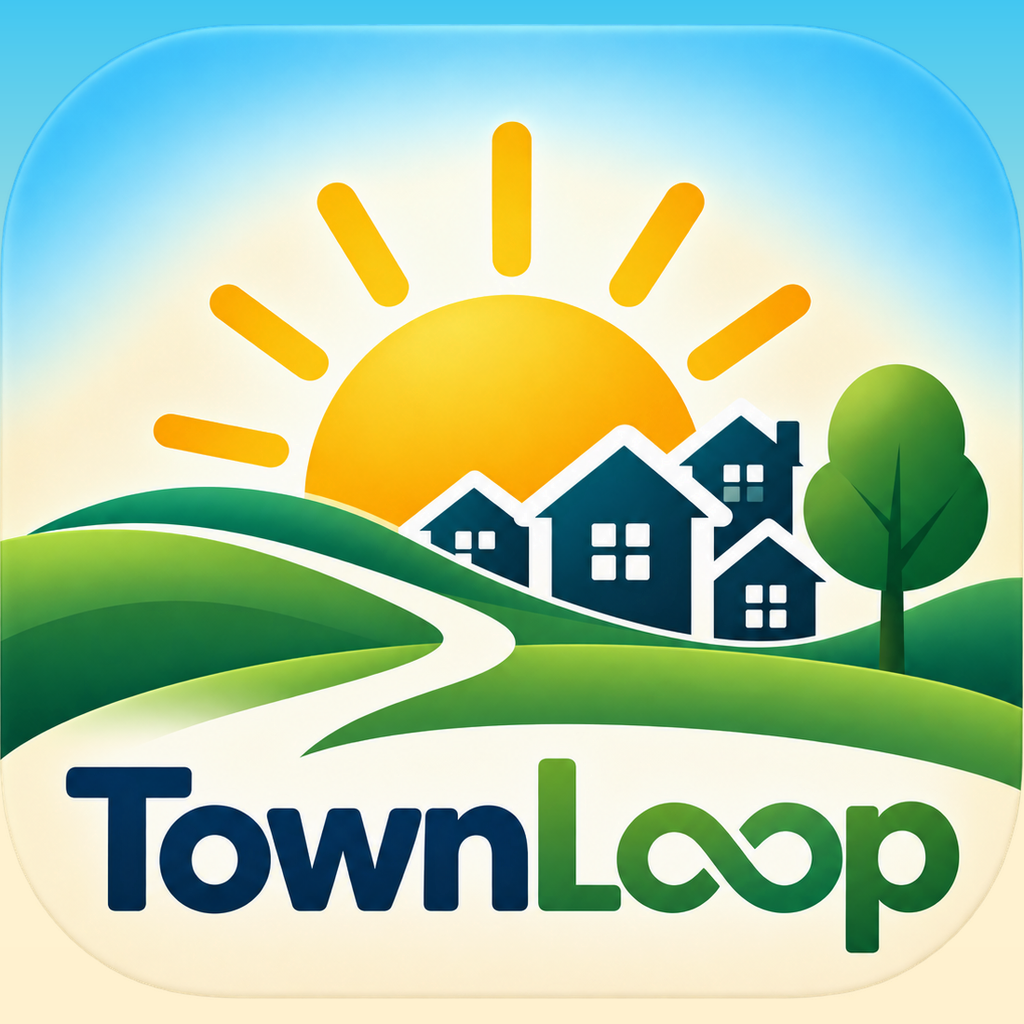
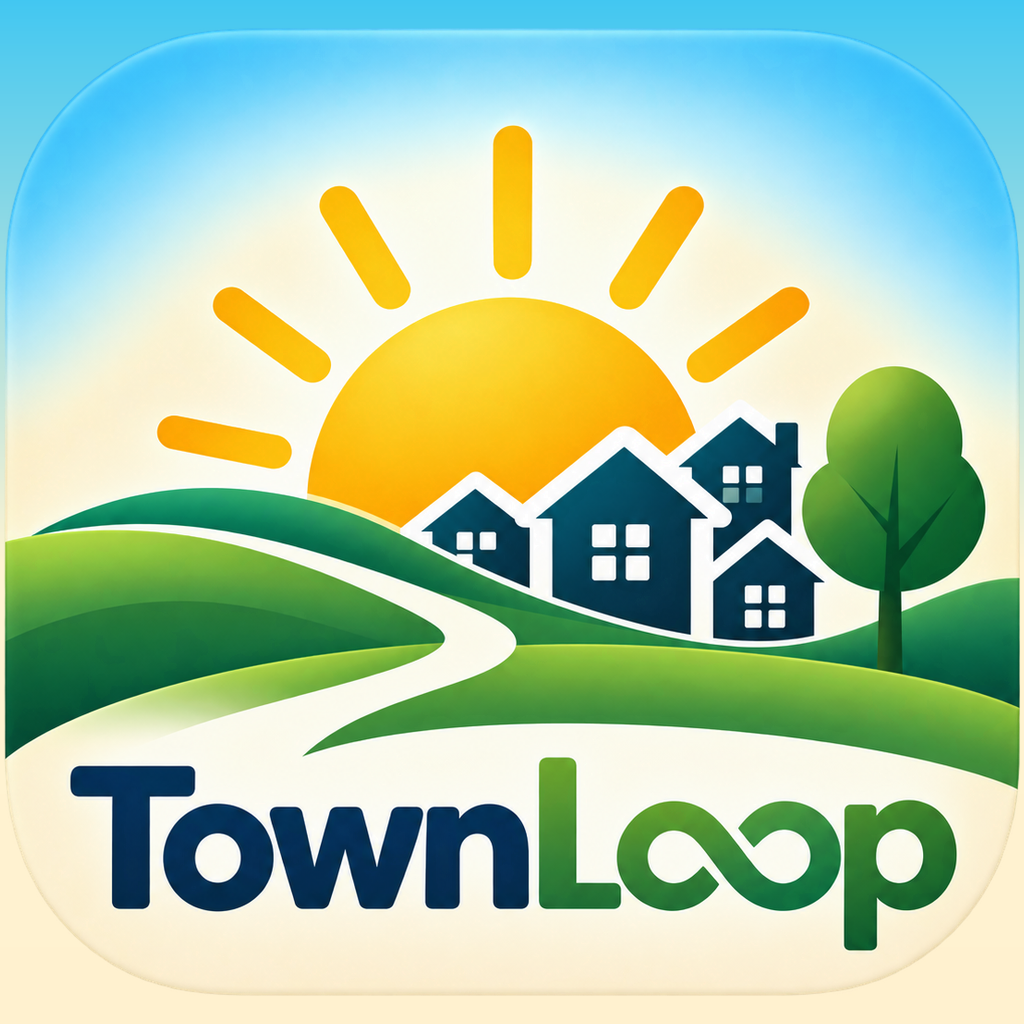
Preserve complete original launcher artwork on Android and iOS

diff --git a/native/scripts/prepare-launcher-icons.py b/native/scripts/prepare-launcher-icons.py
@@ -1,0 +1,70 @@
+"""Package the complete owner-approved icon composition for Android and iOS.
+
+Pillow required. No redrawing, recoloring, edge stretching or generative edits.
+Only transparent outer canvas is trimmed; the rounded panel remains intact.
+"""
+from pathlib import Path
+from math import hypot
+from PIL import Image
+
+ASSETS = Path(__file__).resolve().parents[1] / 'assets'
+SIZE = 1024
+SOURCE = ASSETS / 'branding/android-launcher-source.png'
+# Alpha >=16 bounds exclude almost invisible stray pixels in transparent canvas.
+CONTENT = (77, 108, 1177, 1156)
+
+
+def outline(art):
+    alpha = art.getchannel('A')
+    points = []
+    for y in range(art.height):
+        bounds = alpha.crop((0, y, art.width, y + 1)).point(lambda a: 255 if a >= 16 else 0).getbbox()
+        if bounds:
+            points.extend([(bounds[0] - art.width / 2, y - art.height / 2),
+                           (bounds[2] - 1 - art.width / 2, y - art.height / 2)])
+    return points
+
+
+def layer(art, scale):
+    resized = art.resize((round(art.width * scale), round(art.height * scale)), Image.Resampling.LANCZOS)
+    canvas = Image.new('RGBA', (SIZE, SIZE))
+    canvas.paste(resized, ((SIZE - resized.width) // 2, (SIZE - resized.height) // 2))
+    return canvas
+
+
+def generate():
+    source = Image.open(SOURCE).convert('RGBA')
+    assert source.size == (1254, 1254)
+    art = source.crop(CONTENT)
+    points = outline(art)
+    background = Image.open(ASSETS / 'branding/launcher-background.png').convert('RGBA')
+    assert background.size == (SIZE, SIZE)
+    # Complete panel, not merely the lettering, stays inside Android's 66dp circle.
+    radius = SIZE * 33 / 108 - 4
+    scale = radius / max(hypot(x, y) for x, y in points)
+    foreground = layer(art, scale)
+    foreground.save(ASSETS / 'adaptive-icon-foreground.png', optimize=True)
+    background.convert('RGB').save(ASSETS / 'adaptive-icon-background.png', optimize=True)
+
+    # Largest proportional iOS placement retaining the full rounded panel under
+    # a conservative rounded-square mask. Padding is background, never black.
+    corner = SIZE * .225
+    def fits(s):
+        return all(hypot(max(abs(x * s) - (SIZE / 2 - corner), 0),
+                         max(abs(y * s) - (SIZE / 2 - corner), 0)) <= corner - 4
+                   for x, y in points)
+    low, high = 0., min(SIZE / art.width, SIZE / art.height)
+    for _ in range(24):
+        middle = (low + high) / 2
+        if fits(middle):
+            low = middle
+        else:
+            high = middle
+    icon = Image.alpha_composite(background, layer(art, low)).convert('RGB')
+    icon.save(ASSETS / 'icon.png', optimize=True)
+    icon.save(ASSETS / 'android-icon.png', optimize=True)
+    print(f'Android artwork: {round(art.width * scale)}px; iOS artwork: {round(art.width * low)}px; complete composition retained')
+
+
+if __name__ == '__main__':
+    generate()

diff --git a/native/assets/branding/LAUNCHER_ICONS.md b/native/assets/branding/LAUNCHER_ICONS.md
@@ -1,0 +1,36 @@
+# Complete original TownLoop launcher artwork — Android and iOS
+
+Owner decision: preserve the full original rounded-square composition and wordmark,
+accepting necessary padding on circular Android launchers. This supersedes the
+edge-extension/reframing experiment in 6d2c1a0.
+
+Source: the latest owner attachment
+`/home/tonio/Downloads/file_00000000ce2c8230b27c45f7dee20ef0.png` matches the existing
+`android-launcher-source.png` byte-for-byte (historical filename, shared by both
+platforms). SHA256: 64373610949b81dd43b1725f1ff13cd71f13ca82bfc7365d3c90dd9a5c7f7e4b.
+No generated replacement, redrawing, lettering changes, or recoloring.
+
+Run `python3 native/scripts/prepare-launcher-icons.py` (Pillow required).
+Only transparent outer canvas is trimmed; the original rounded panel, scenery,
+proportions, colors, and full TownLoop lettering are retained. All resizing uses
+Lanczos downsampling from the 1254px source. The opaque blue/cream backing is the
+existing background asset from c9008bf, preserved in launcher-background.png.
+There is no stretched landscape or altered composition.
+
+Android's entire visible panel fits inside the centered 66dp safe circle in its
+108dp adaptive layer, with a small rasterization margin. This necessarily makes
+it smaller than the edge-to-edge experiment. iOS uses the largest proportional
+placement preserving the panel under a conservative rounded-square mask; the
+1024px icon is opaque. Pre-adaptive Android uses that same flattened image.
+Android launchers control the outer mask and user-selected theming. The app
+cannot guarantee a rounded-square outer shape, identical apparent size, or
+untinted appearance under every launcher/theme.
+Reference: https://developer.android.com/develop/ui/compose/system/icon_design_adaptive
+
+Local checks: exact source identity, full-panel mask containment, 1024px layers,
+opaque iOS/legacy backgrounds, and resolved Expo icon paths. Launcher previews
+are simulated, not physical-device verification. Startup, notification icons,
+authentication, and all app functionality remain unchanged.
+
+New Android and iOS native builds are required to install these resources.
+OTA cannot replace a compiled launcher icon. No build/publication is authorized.
